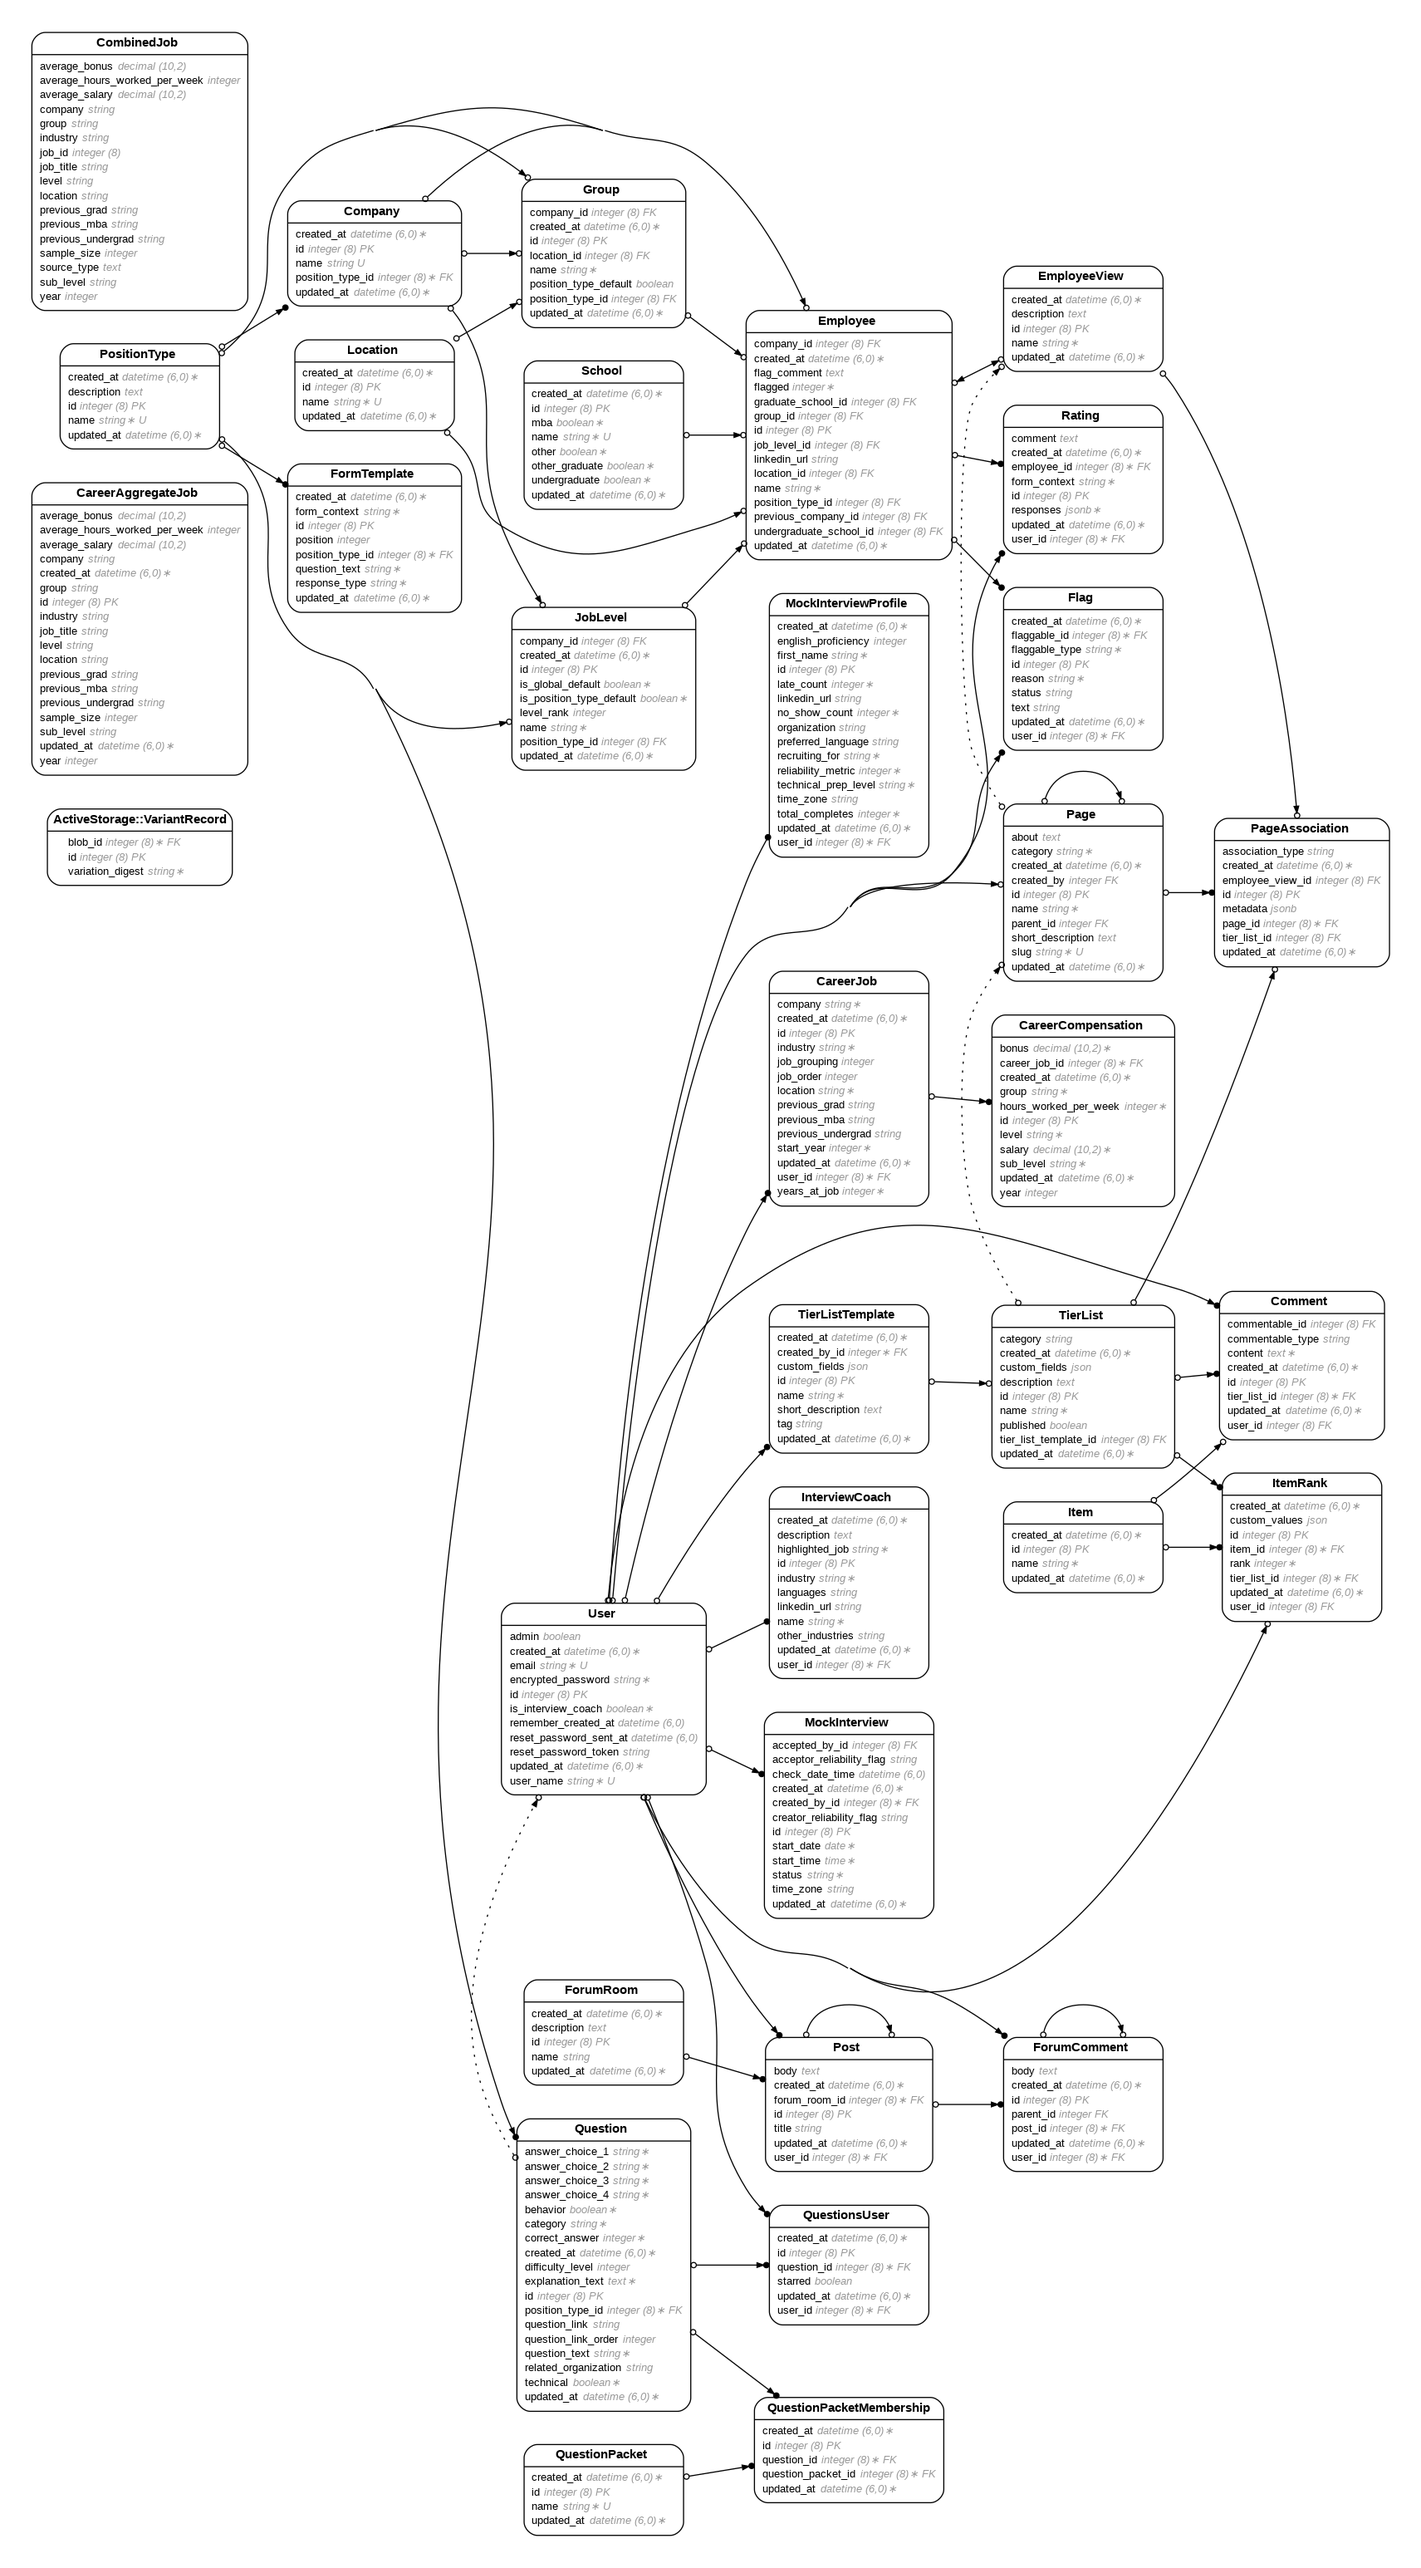
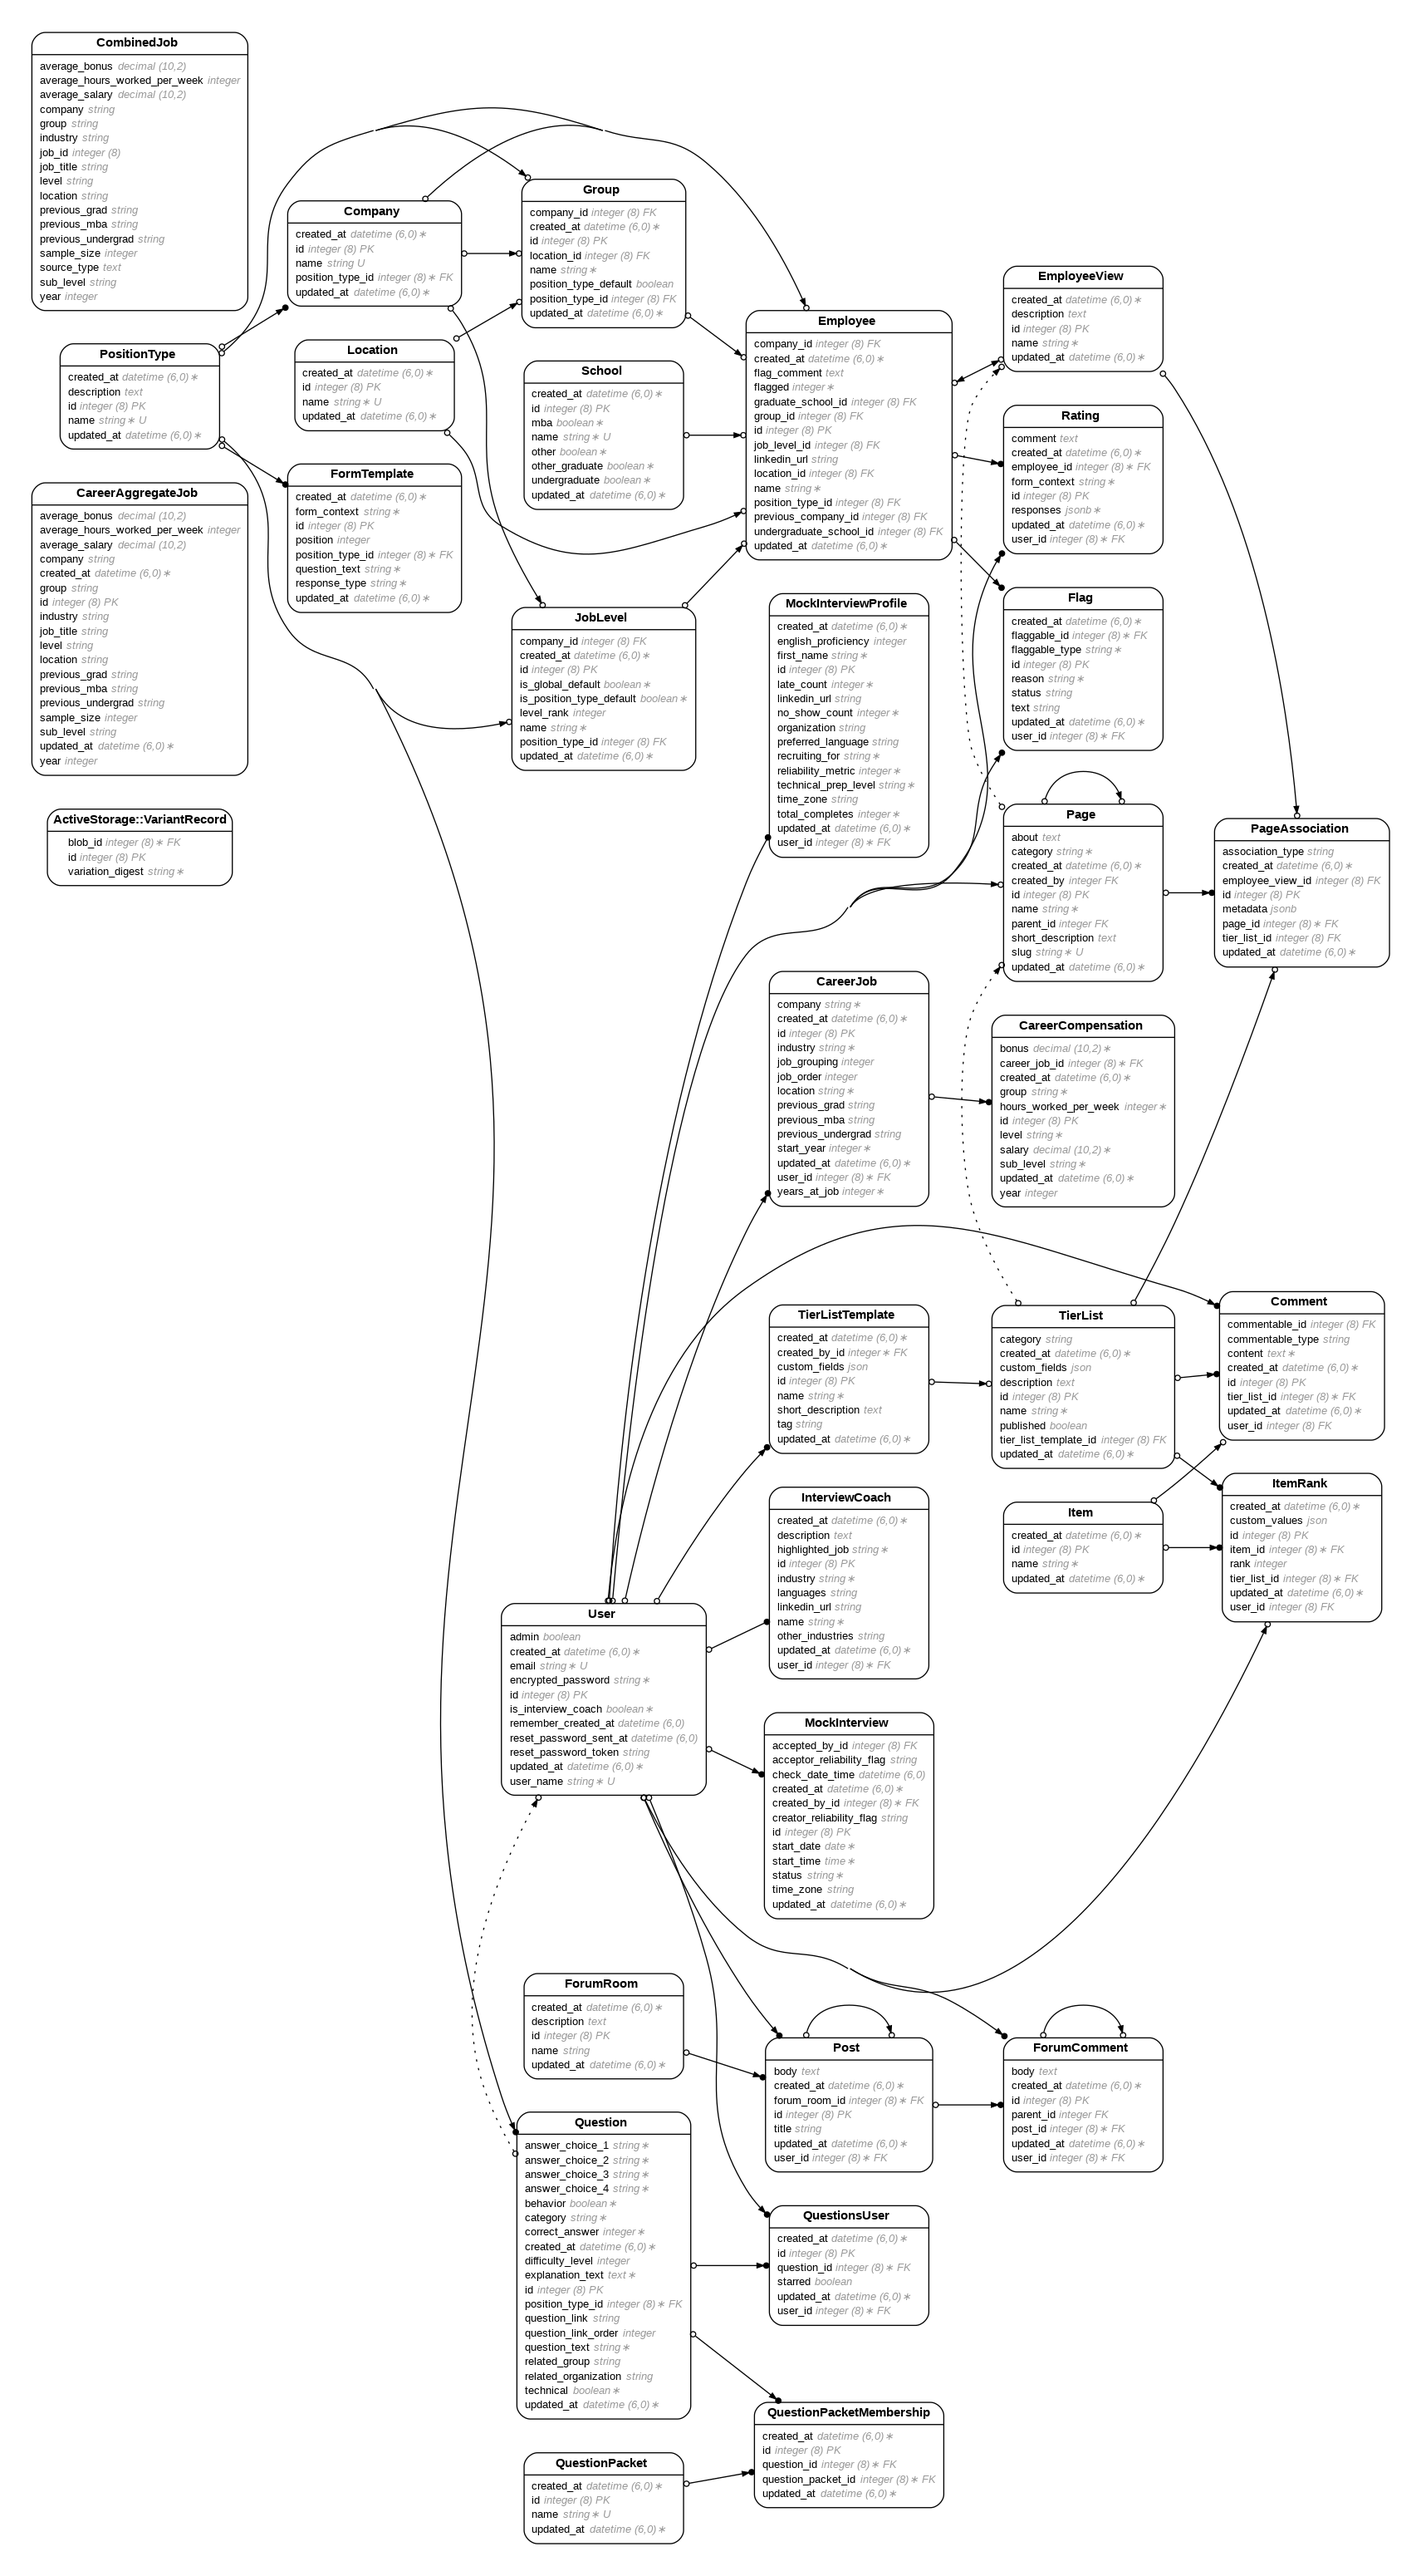
Updated the question model

diff --git a/db/schema.rb b/db/schema.rb
@@ -10,7 +10,7 @@
 #
 # It's strongly recommended that you check this file into your version control system.
 
-ActiveRecord::Schema[7.1].define(version: 2025_02_03_183853) do
+ActiveRecord::Schema[7.1].define(version: 2025_02_08_160945) do
   # These are extensions that must be enabled in order to support this database
   enable_extension "plpgsql"
 
@@ -385,6 +385,7 @@ ActiveRecord::Schema[7.1].define(version: 2025_02_03_183853) do
     t.integer "question_link_order"
     t.datetime "created_at", null: false
     t.datetime "updated_at", null: false
+    t.string "related_group"
     t.index ["position_type_id"], name: "index_questions_on_position_type_id"
   end
 

diff --git a/app/controllers/admin/questions_controller.rb b/app/controllers/admin/questions_controller.rb
@@ -46,7 +46,7 @@ class Admin::QuestionsController < ApplicationController
     params.require(:question).permit(
       :question_text, :answer_choice_1, :answer_choice_2, :answer_choice_3, :answer_choice_4,
       :correct_answer, :explanation_text, :technical, :behavior, :category,
-      :position_type_id, :difficulty_level, :related_organization, :question_link, :question_link_order
+      :position_type_id, :difficulty_level, :related_organization, :question_link, :question_link_order, :related_group
     )
   end
 end

diff --git a/app/models/question.rb b/app/models/question.rb
@@ -15,6 +15,7 @@
 #  question_link        :string
 #  question_link_order  :integer
 #  question_text        :string           not null
+#  related_group        :string
 #  related_organization :string
 #  technical            :boolean          default(FALSE), not null
 #  created_at           :datetime         not null

diff --git a/db/migrate/20250208160945_add_related_group_to_questions.rb b/db/migrate/20250208160945_add_related_group_to_questions.rb
@@ -1,0 +1,5 @@
+class AddRelatedGroupToQuestions < ActiveRecord::Migration[7.1]
+  def change
+    add_column :questions, :related_group, :string
+  end
+end
